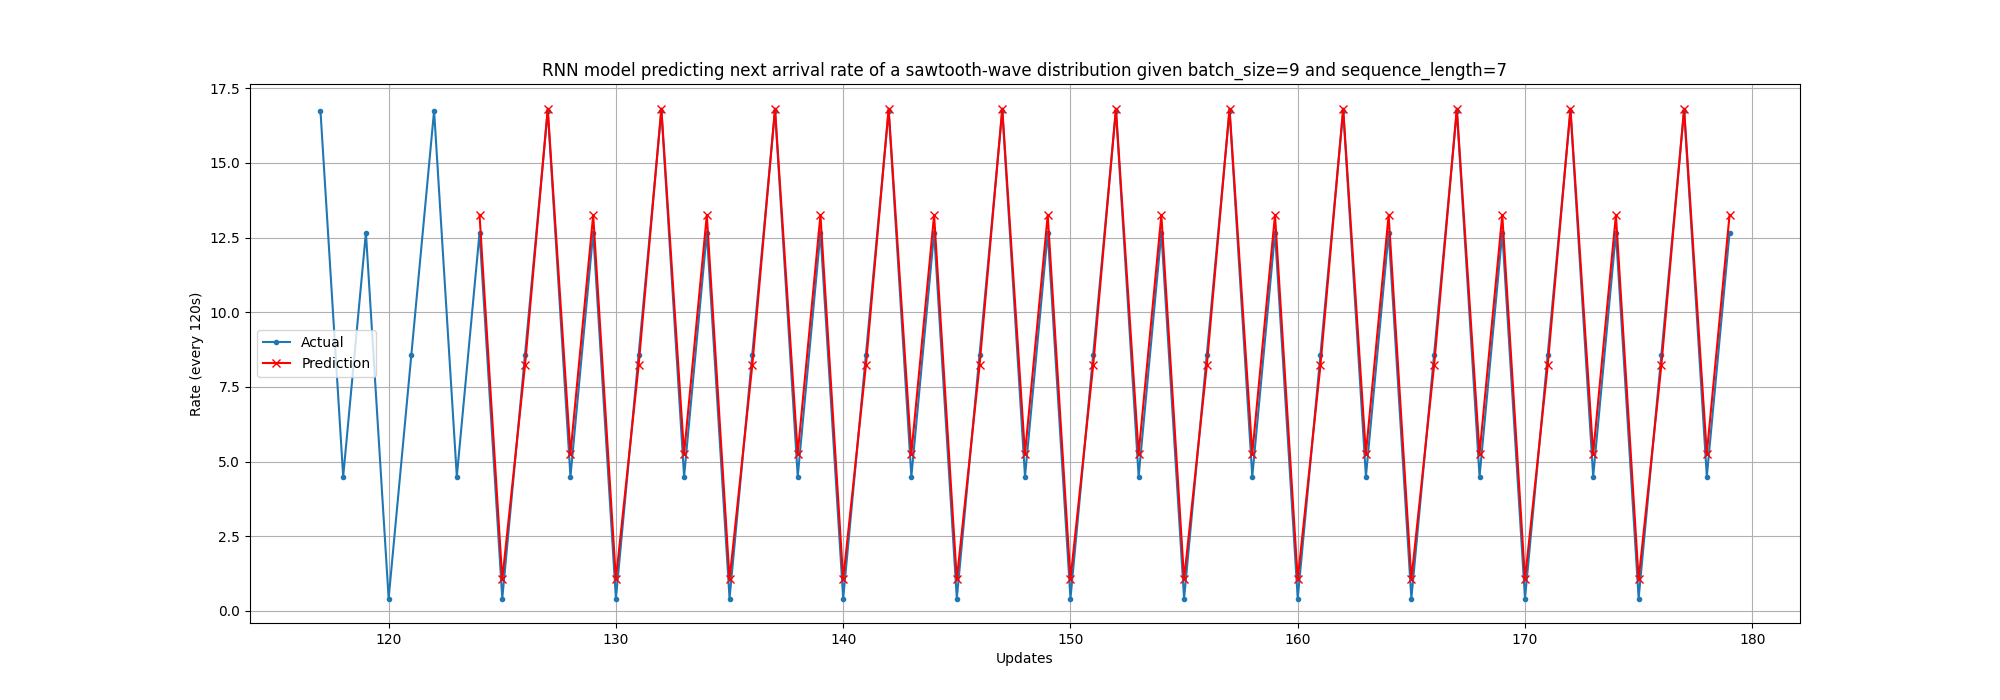
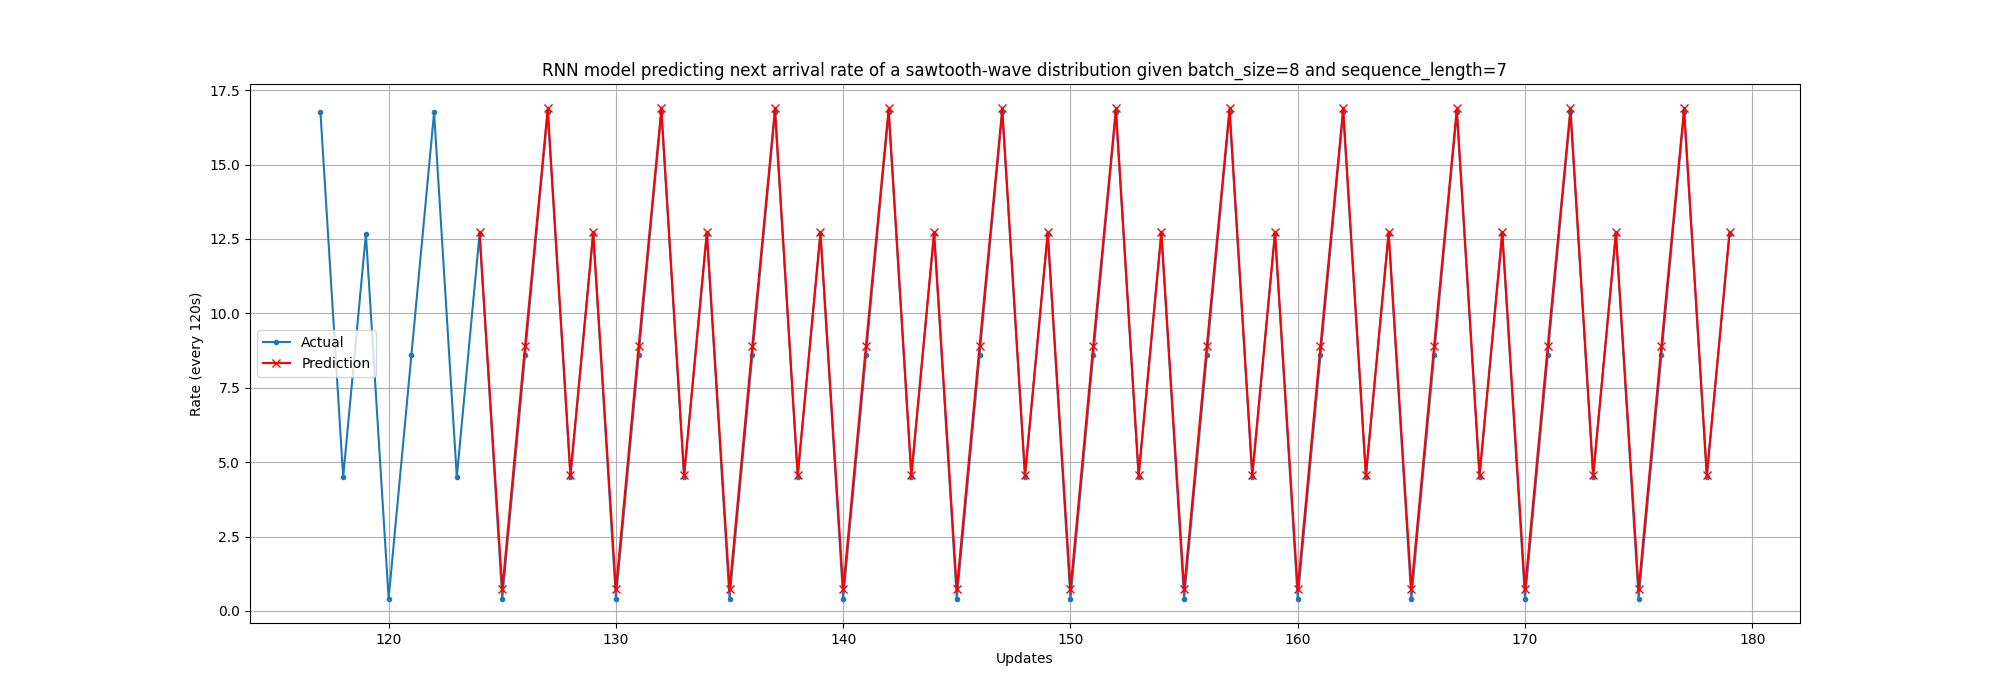
back-up commit 4

diff --git a/models/training.py b/models/training.py
@@ -29,13 +29,13 @@ def prepare_data(df, test_size=0.35):
     rates = df.copy()
     l = int(len(rates)*(1-test_size))
     x = rates[:l]
-
     # Scaling
     x = SCALER.fit_transform(x.to_numpy().reshape(-1, 1))
 
     x_train = x[:(int(len(x)/5)*4)]
     x_valid = x[(int(len(x)/5)*4):]
     test = rates[l:]
+    # Scaling
     x_test = SCALER.transform(test.to_numpy().reshape(-1, 1))
 
     print(f"len(x_train): {len(x_train)}")
@@ -108,24 +108,15 @@ def main():
     file_path = "models/training/"+distribution+"_rates.csv"
     df = load_data(file_path)
     rates = df["Rate"]
-    train_ds, valid_ds, x_test, test_ds = prepare_data(rates)
 
     actv = "linear"     # actv = 'tanh' is best suited for periodic functions
     loss = tf.keras.losses.MeanAbsoluteError()
     learning_rate = 0.01
     epochs=5
+    test_size = 0.35
 
     if distribution == "sinusoid":
-        neurons = BATCH_SIZE*7
-        actv = "tanh"
-        learning_rate = 0.0006
-        epochs = 50
-        model = tf.keras.Sequential([
-            tf.keras.layers.SimpleRNN(neurons, activation=actv, input_shape=[None, 1]),
-            tf.keras.layers.Dense(1)  # Output layer
-        ])
-    elif distribution == "shifted-sinusoid":
-        neurons = BATCH_SIZE*7
+        neurons = BATCH_SIZE*8
         actv = "tanh"
         learning_rate = 0.0005
         epochs = 50
@@ -133,12 +124,22 @@ def main():
             tf.keras.layers.SimpleRNN(neurons, activation=actv, input_shape=[None, 1]),
             tf.keras.layers.Dense(1)  # Output layer
         ])
+    elif distribution == "shifted-sinusoid":
+        test_size = 0.38
+        neurons = BATCH_SIZE*7
+        actv = "tanh"
+        learning_rate = 0.005
+        epochs = 50
+        model = tf.keras.Sequential([
+            tf.keras.layers.SimpleRNN(neurons, activation=actv, input_shape=[None, 1]),
+            tf.keras.layers.Dense(1)  # Output layer
+        ])
     elif distribution == "square-wave":
-        neurons_1 = BATCH_SIZE*3-3
-        neurons_2 = BATCH_SIZE*2
+        neurons_1 = BATCH_SIZE*3
+        neurons_2 = BATCH_SIZE*2-1
         epochs = 50
         actv = 'tanh'
-        learning_rate = 0.01
+        learning_rate = 0.0001
         model = tf.keras.Sequential([
             tf.keras.layers.SimpleRNN(neurons_1, activation=actv, input_shape=[None, 1], return_sequences=True),
             tf.keras.layers.SimpleRNN(neurons_2, activation=actv),
@@ -146,30 +147,10 @@ def main():
         ])
     elif distribution == "sawtooth-wave":
         neurons_1 = BATCH_SIZE*8
-        learning_rate = 0.02
+        learning_rate = 0.001
         actv = "tanh"
         model = tf.keras.Sequential([
             tf.keras.layers.SimpleRNN(neurons_1, activation=actv, input_shape=[None, 1]),
-            tf.keras.layers.Dense(1)  # Output layer
-        ])
-    elif distribution == "logistic-map":
-        # to-do
-        neurons_1 = BATCH_SIZE*5
-        neurons_2 = BATCH_SIZE*4
-        loss = tf.keras.losses.Huber()
-        model = tf.keras.Sequential([
-            tf.keras.layers.SimpleRNN(neurons_1, activation=actv, input_shape=[None, 1], return_sequences=True),
-            tf.keras.layers.SimpleRNN(neurons_2, activation=actv),
-            tf.keras.layers.Dense(1)  # Output layer
-        ])
-    elif distribution == "gaussian-modulated":
-        # to-do
-        neurons_1 = BATCH_SIZE*3-2
-        neurons_2 = BATCH_SIZE
-        loss = tf.keras.losses.Huber()
-        model = tf.keras.Sequential([
-            tf.keras.layers.SimpleRNN(neurons_1, activation=actv, input_shape=[None, 1], return_sequences=True),
-            tf.keras.layers.SimpleRNN(neurons_2, activation=actv),
             tf.keras.layers.Dense(1)  # Output layer
         ])
     elif distribution == "globus0" or distribution == "globus1":
@@ -187,10 +168,10 @@ def main():
             tf.keras.layers.SimpleRNN(neurons),
             tf.keras.layers.Dense(1)
         ])
-    elif distribution == "debs15" or distribution == "debs15_1" or distribution == "debs15_2" or distribution == "debs15_3":
+    elif distribution == "debs15" or distribution == "debs15_1_even" or distribution == "debs15_2" or distribution == "debs15_1":
         neurons = BATCH_SIZE*7
         learning_rate = 0.0005
-        epochs = 10
+        epochs = 50
         model = tf.keras.Sequential([
             tf.keras.layers.SimpleRNN(neurons*10, input_shape=[None, 1]),
             tf.keras.layers.Dense(1)  # Output layer
@@ -200,6 +181,7 @@ def main():
         print("Distribuzione non supportata")
         return
 
+    train_ds, valid_ds, x_test, test_ds = prepare_data(rates, test_size)
     mae = fit_and_evaluate(model, train_ds, valid_ds, loss=loss, learning_rate=learning_rate, epochs=epochs)
 
     print(f"MAE: {mae}")

diff --git a/model.py b/model.py
@@ -1,6 +1,7 @@
 import joblib
 import tensorflow as tf
 from tensorflow import keras
+from sklearn.preprocessing import MinMaxScaler
 import numpy as np
 import csv
 
@@ -12,18 +13,17 @@ class Model:
         self.training_rounds = 0
         self.learning_rate = 0.0001
         self.neurons = 6
+        self.batch_size = batch_size
         self.early_stopping_cb = tf.keras.callbacks.EarlyStopping(monitor="mae", patience=10, restore_best_weights=True)
         self.opt = tf.keras.optimizers.SGD(learning_rate=self.learning_rate, momentum=0.9)
         self.loss = tf.keras.losses.MeanAbsoluteError()
 
-        #self.m = joblib.load(name)
-        #self.m = self.setup_model()
         self.m = None
 
         self.training_flag = False
+        self.scaler = MinMaxScaler(feature_range=(0, 1))
         self.sequence_length = sequence_length
         self.training_threshold = sequence_length
-        self.batch_size = batch_size
         self.rate_sequence = []
         self.actual_sequence = []
         self.predicted_sequence = []
@@ -48,9 +48,9 @@ class Model:
 
     def train(self):
 
-        training_set = self.actual_sequence
+        training_set = self.scaler.fit_transform(np.array(self.actual_sequence).reshape(-1, 1))
         train_ds = tf.keras.utils.timeseries_dataset_from_array(
-            np.array(training_set),
+            training_set,
             targets=training_set[self.sequence_length:],
             sequence_length=self.sequence_length,
             batch_size=self.batch_size,
@@ -58,8 +58,6 @@ class Model:
 
         self.m.compile(loss=self.loss, metrics=["mae"], optimizer=self.opt)
         history = self.m.fit(train_ds, epochs=self.epochs, callbacks=[self.early_stopping_cb], verbose=0)
-        #valid_loss, valid_mae = self.m.evaluate(valid_set)
-        #return valid_mae * 1e6
 
         self.training_flag = True
         self.training_rounds = 0
@@ -132,8 +130,10 @@ class Model:
 
         if self.training_flag:
             input_sequence = np.array(self.rate_sequence)
+            input_sequence = self.scaler.fit_transform(input_sequence.reshape(-1, 1))
             input_sequence = input_sequence.reshape(1, self.sequence_length)
             model_prediction = self.m.predict(input_sequence, verbose=0)
+            model_prediction = self.scaler.inverse_transform(model_prediction)
             model_prediction = model_prediction[0][0]
             self.model_predicted.append(model_prediction)
 
